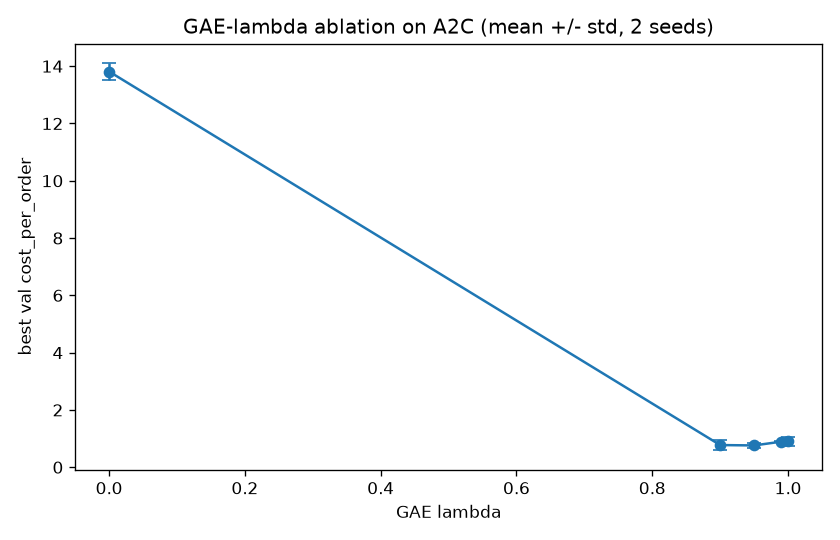
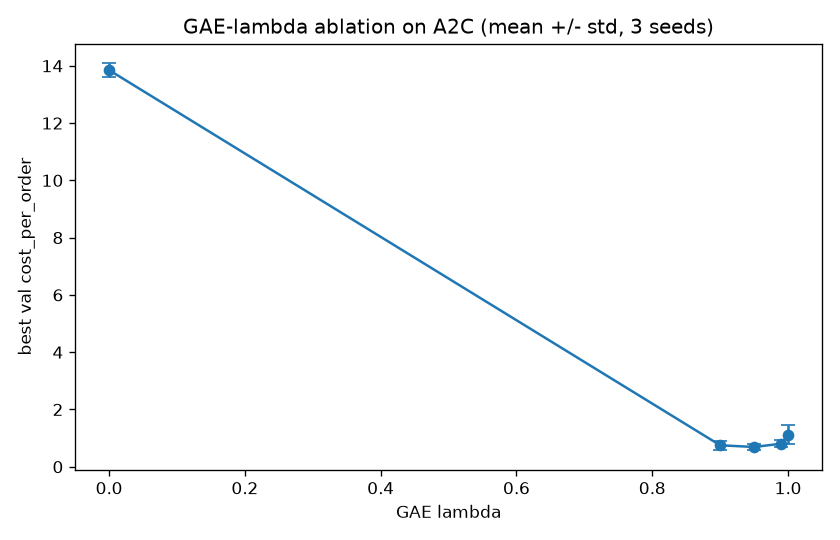
Run the GAE-lambda ablation with 3 seeds (was 2)
The project standard is >=3 seeds; the ablation used 2. Add seed 2 and regenerate
the figure. The bias/variance conclusion is unchanged (lambda=0.95 optimal).

diff --git a/code/role_b/plot_curves.py b/code/role_b/plot_curves.py
@@ -125,7 +125,7 @@ def plot_ablation():
     ax.errorbar(lams, means, yerr=stds, marker="o", capsize=4)
     ax.set_xlabel("GAE lambda")
     ax.set_ylabel("best val cost_per_order")
-    ax.set_title("GAE-lambda ablation on A2C (mean +/- std, 2 seeds)")
+    ax.set_title("GAE-lambda ablation on A2C (mean +/- std, 3 seeds)")
     fig.tight_layout()
     fig.savefig(f"{FIG}/ablation_gae.png", dpi=120)
     print(f"wrote {FIG}/ablation_gae.png")